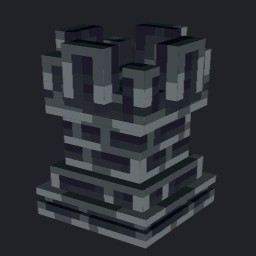
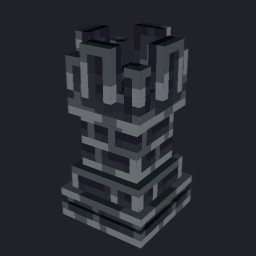
Rename Items: keep model proportions in the rendered previews

Changed region(s): [[0.125, 0.0938, 0.8438, 0.9688]]

diff --git a/_dev/scripts/render-model-previews.js b/_dev/scripts/render-model-previews.js
@@ -27,7 +27,8 @@ for (const it of items) {
   const blob = await mv.toBlob({ mimeType: 'image/png', idealAspect: true });
   const img = await createImageBitmap(blob);
   const c = document.createElement('canvas'); c.width = c.height = 256; const x = c.getContext('2d');
-  x.fillStyle = bg; x.fillRect(0, 0, 256, 256); x.drawImage(img, 0, 0, 256, 256);
+  x.fillStyle = bg; x.fillRect(0, 0, 256, 256); const k = Math.min(256 / img.width, 256 / img.height), w = img.width * k, h = img.height * k; // keep proportions
+  x.drawImage(img, (256 - w) / 2, (256 - h) / 2, w, h);
   const jpg = await new Promise(r => c.toBlob(r, 'image/jpeg', 0.9));
   await fetch('/save?f=' + encodeURIComponent(it.jpg), { method: 'POST', body: jpg });
   mv.remove();
